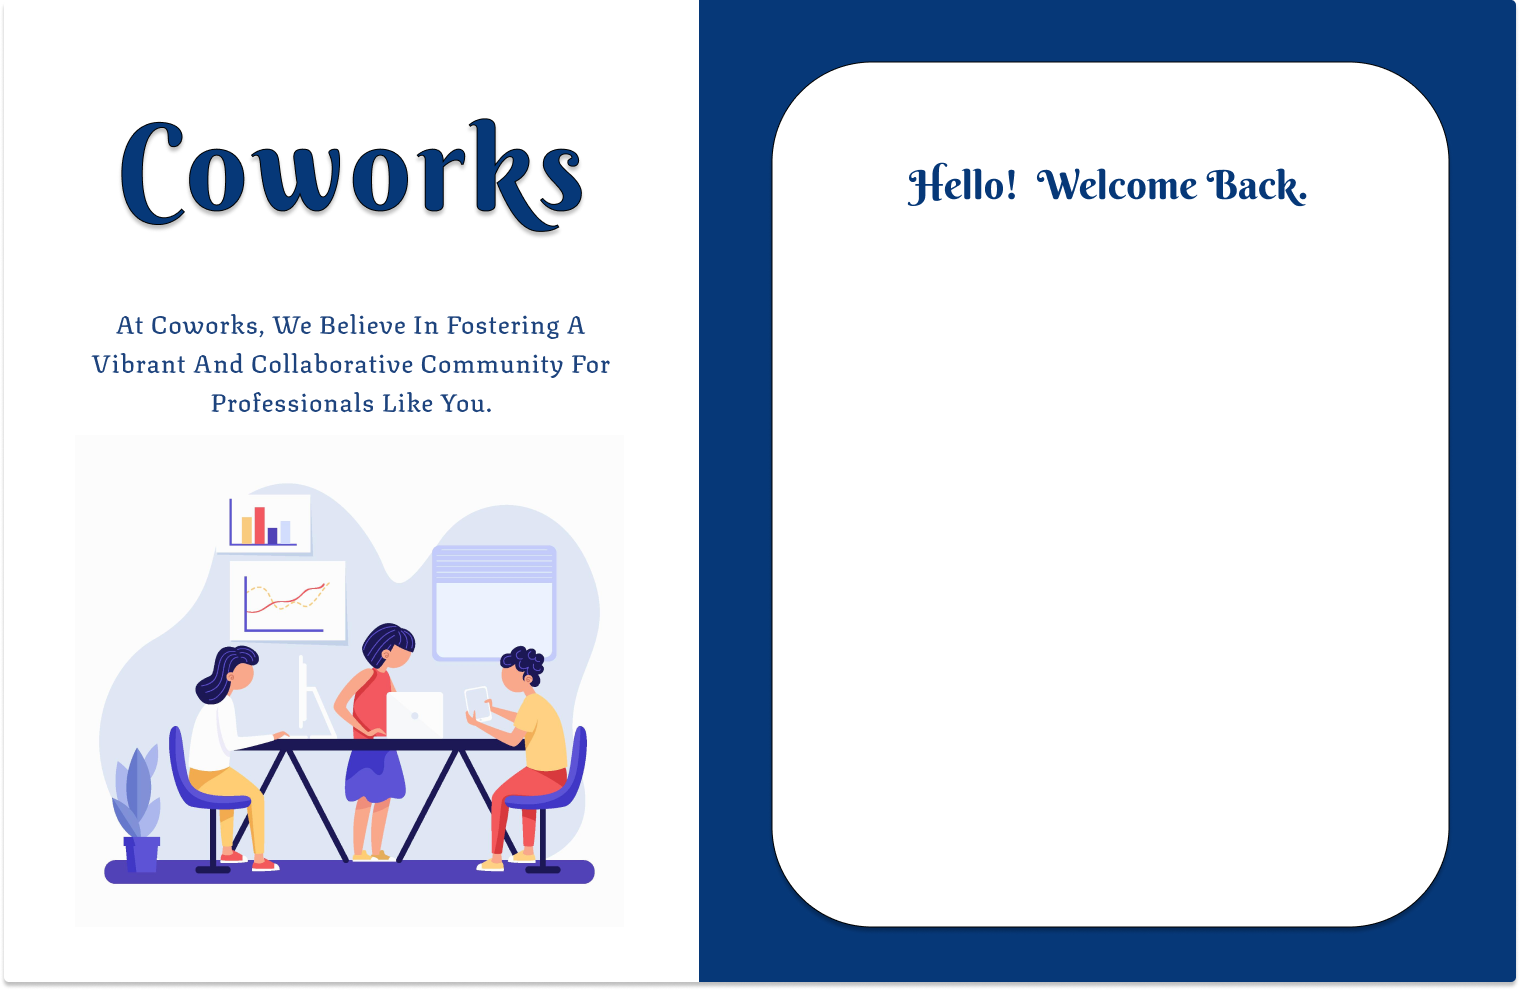
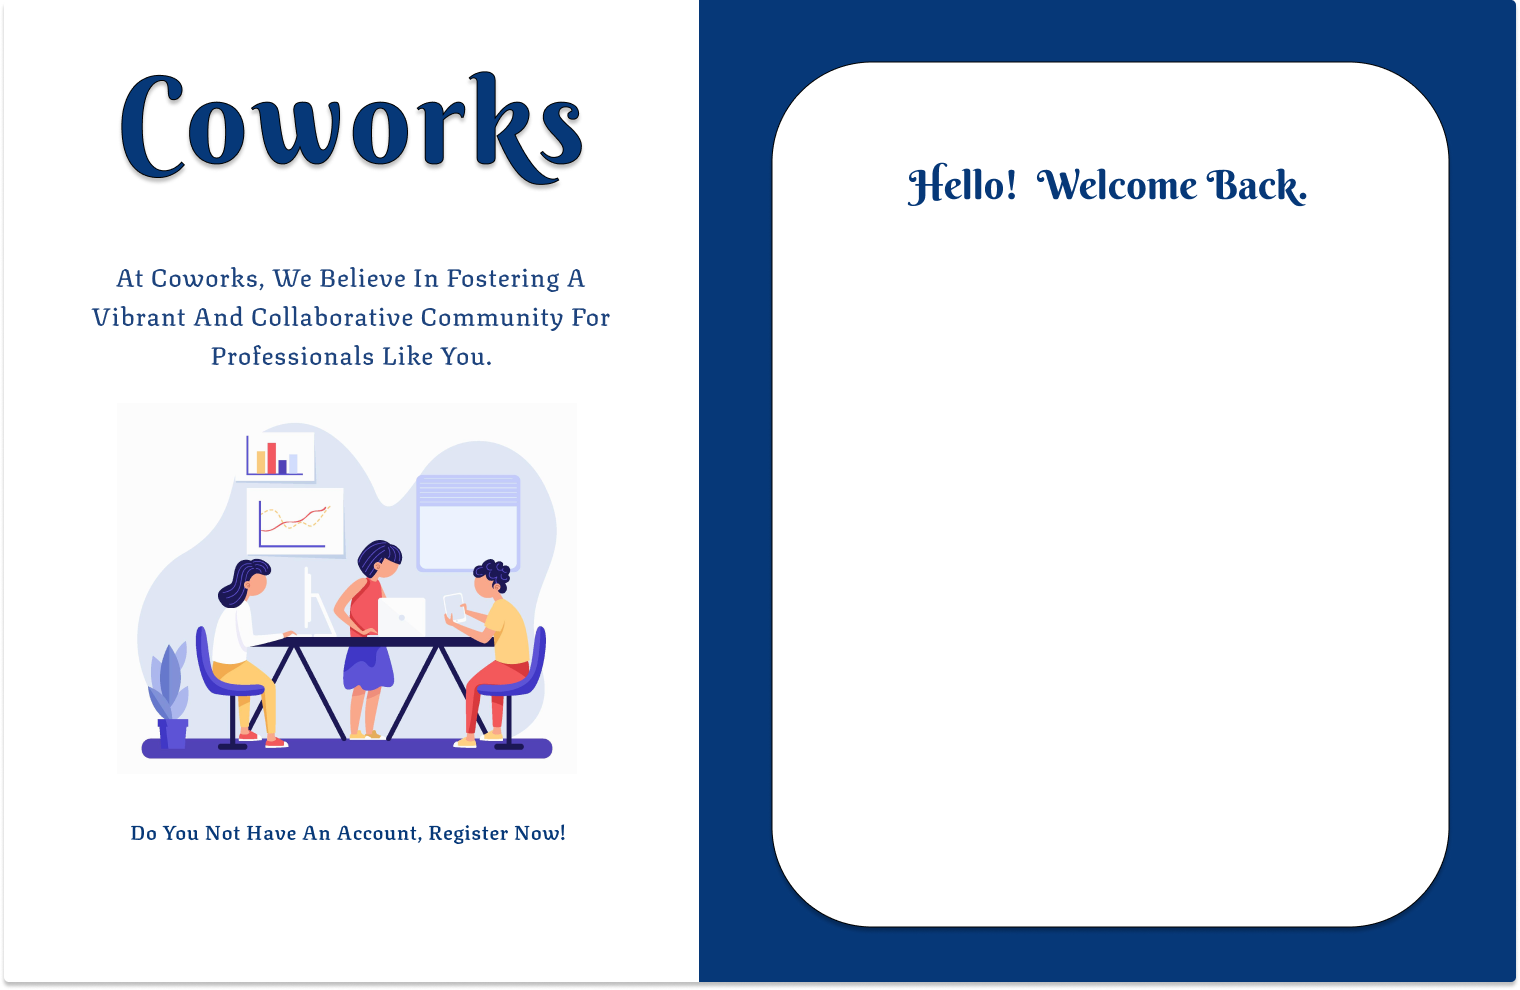
Made 3 screens of GUI "login", "register", and "welcome".

Changed region(s): [[0.0618, 0.2727, 0.402, 0.9091], [0.0618, 0.0606, 0.402, 0.2424]]

diff --git a/src/main/java/coworking_space/coworks/welcomeController.java b/src/main/java/coworking_space/coworks/welcomeController.java
@@ -1,0 +1,49 @@
+package coworking_space.coworks;
+
+import javafx.fxml.FXML;
+import javafx.fxml.FXMLLoader;
+import javafx.scene.Parent;
+import javafx.scene.Scene;
+import javafx.scene.input.MouseEvent;
+import javafx.scene.layout.AnchorPane;
+import javafx.stage.Stage;
+import java.io.IOException;
+
+public class welcomeController {
+
+    @FXML
+    private AnchorPane welcomeScreen;
+
+    @FXML
+    void changeScreenToLoginScreen(MouseEvent event) throws IOException
+    {
+        // Load the loginScreen.fxml file
+        Parent root = FXMLLoader.load(getClass().getResource("loginScreen.fxml"));
+
+        // Create a new scene with the loaded FXML content
+        Scene scene = new Scene(root);
+
+        // Get the Stage from the MouseEvent's source
+        Stage stage = (Stage) welcomeScreen.getScene().getWindow();
+
+        // Set the new scene on the stage
+        stage.setScene(scene);
+        stage.show();
+    }
+    @FXML
+    void changeScreenToRegisterScreen(MouseEvent event) throws IOException
+    {
+        // Load the registerScreen.fxml file
+        Parent root = FXMLLoader.load(getClass().getResource("registerScreen.fxml"));
+
+        // Create a new scene with the loaded FXML content
+        Scene scene = new Scene(root);
+
+        // Get the Stage from the MouseEvent's source
+        Stage stage = (Stage) welcomeScreen.getScene().getWindow();
+
+        // Set the new scene on the stage
+        stage.setScene(scene);
+        stage.show();
+    }
+}

diff --git a/src/main/java/coworking_space/coworks/LoginController.java b/src/main/java/coworking_space/coworks/LoginController.java
@@ -1,0 +1,42 @@
+package coworking_space.coworks;
+
+import javafx.fxml.FXML;
+import javafx.fxml.FXMLLoader;
+import javafx.scene.Parent;
+import javafx.scene.Scene;
+import javafx.scene.control.Button;
+import javafx.scene.image.ImageView;
+import javafx.scene.input.MouseEvent;
+import javafx.scene.layout.AnchorPane;
+import javafx.stage.Stage;
+
+import java.io.IOException;
+
+public class LoginController {
+
+    @FXML
+    private ImageView loginImage;
+
+    @FXML
+    private AnchorPane loginScreen;
+
+    @FXML
+    private Button registerLogin;
+
+    @FXML
+    void changeScreenToLoginScreen_2(MouseEvent event) throws IOException
+    {
+        // Load the registerScreen.fxml file
+        Parent root = FXMLLoader.load(getClass().getResource("registerScreen.fxml"));
+
+        // Create a new scene with the loaded FXML content
+        Scene scene = new Scene(root);
+
+        // Get the Stage from the MouseEvent's source
+        Stage stage = (Stage) loginScreen.getScene().getWindow();
+
+        // Set the new scene on the stage
+        stage.setScene(scene);
+        stage.show();
+    }
+}

diff --git a/src/main/java/coworking_space/coworks/TeachingRoom.java b/src/main/java/coworking_space/coworks/TeachingRoom.java
@@ -1,4 +1,4 @@
-package coworking_space.coworks;
+/*package coworking_space.coworks;
 
 import com.fasterxml.jackson.annotation.JsonCreator;
 import com.fasterxml.jackson.annotation.JsonIgnore;
@@ -17,13 +17,14 @@ public class TeachingRoom extends AbstractRoom{
     public String instractorname;
     public String type;
     ArrayList<InstructorVisitor> visitors;
-
     public final int maxNumberOfVisitors = 10;
     public TeachingRoom(@JsonProperty("name") String name, @JsonProperty("id") int id, @JsonProperty("projecttype") String projecttype,
                         @JsonProperty("boardtype") String boardtype, @JsonProperty("instractorname")String instractorname,
                         @JsonProperty("slots") ArrayList<Slot> slots,
                         @JsonProperty("visitors") ArrayList<InstructorVisitor> visitors)
 
+ */
+/*
     {
         this(name,id,slots,visitors);
         this.type="teaching";
@@ -103,6 +104,6 @@ public class TeachingRoom extends AbstractRoom{
         }
         return totalAmount;
     }
-}
+}*/
 
 

diff --git a/src/main/java/coworking_space/coworks/RegisterController.java b/src/main/java/coworking_space/coworks/RegisterController.java
@@ -1,0 +1,39 @@
+package coworking_space.coworks;
+
+import javafx.fxml.FXML;
+import javafx.fxml.FXMLLoader;
+import javafx.scene.Parent;
+import javafx.scene.Scene;
+import javafx.scene.control.Button;
+import javafx.scene.input.MouseEvent;
+import javafx.scene.layout.AnchorPane;
+import javafx.stage.Stage;
+
+import java.io.IOException;
+
+public class RegisterController {
+
+    @FXML
+    private Button registerLogin;
+
+    @FXML
+    private AnchorPane registerScreen;
+
+    @FXML
+    void changeScreenToLoginScreen_1(MouseEvent event) throws IOException
+    {
+        // Load the loginScreen.fxml file
+        Parent root = FXMLLoader.load(getClass().getResource("loginScreen.fxml"));
+
+        // Create a new scene with the loaded FXML content
+        Scene scene = new Scene(root);
+
+        // Get the Stage from the MouseEvent's source
+        Stage stage = (Stage) registerScreen.getScene().getWindow();
+
+        // Set the new scene on the stage
+        stage.setScene(scene);
+        stage.show();
+    }
+
+}

diff --git a/src/main/java/coworking_space/coworks/AbstractVisitor.java b/src/main/java/coworking_space/coworks/AbstractVisitor.java
@@ -1,4 +1,4 @@
-package coworking_space.coworks;
+/*package coworking_space.coworks;
 import com.fasterxml.jackson.annotation.JsonSubTypes;
 import com.fasterxml.jackson.annotation.JsonTypeInfo;
 import coworking_space.coworks.AbstractRoom;
@@ -45,7 +45,7 @@ public abstract class AbstractVisitor {
         }
         return visitors;
     }*/
-
+/*
     protected static AbstractVisitor createVisitorFromRegistration(Registration currentR) {
         try {
             switch (currentR.getRole()) {
@@ -126,7 +126,7 @@ public abstract class AbstractVisitor {
                 }break;
         }
     }*/
-
+/*
     public void displayData(int c, ArrayList<AbstractVisitor> visitorinfo, String currentUserEmail, AbstractRoom room) {
         switch (c) {
             case 1:
@@ -163,4 +163,4 @@ public abstract class AbstractVisitor {
     protected abstract void makeReservation(AbstractRoom room);
     protected abstract void updateReservation(AbstractRoom room);
     public abstract void cancelReservation(AbstractRoom room);
-}
+}*/

diff --git a/src/main/java/coworking_space/coworks/Coworks_Main.java b/src/main/java/coworking_space/coworks/Coworks_Main.java
@@ -7,16 +7,17 @@ import javafx.stage.Stage;
 
 import java.io.IOException;
 
-public class Coworks_Main extends Application {
+public class Coworks_Main extends Application
+{
     @Override
-    public void start(Stage stage) throws IOException {
-        FXMLLoader fxmlLoader = new FXMLLoader(Coworks_Main.class.getResource("hello-view.fxml"));
+    public void start(Stage stage) throws IOException
+    {
+        FXMLLoader fxmlLoader = new FXMLLoader(Coworks_Main.class.getResource("welcomeScreen.fxml"));
         Scene scene = new Scene(fxmlLoader.load());
         stage.setTitle("Coworks");
         stage.setScene(scene);
         stage.show();
     }
-
     public static void main(String[] args) {
         launch();
     }

diff --git a/src/main/java/coworking_space/coworks/Login.java b/src/main/java/coworking_space/coworks/Login.java
@@ -1,4 +1,4 @@
-package coworking_space.coworks;
+/*package coworking_space.coworks;
 
 import java.util.Arrays;
 
@@ -32,13 +32,12 @@ class Login {
                     System.out.println(role);
                 } else {
                     JOptionPane.showMessageDialog(panel, "Invalid credentials. Please try again.");
-                }
-      */
+                }*/
 
 
 
 
-
+/*
     private boolean validateLogin(String userEmail, String password,String role) {
 
 
@@ -68,9 +67,4 @@ class Login {
     public static Login getLastSuccessfulLogin() {
         return lastSuccessfulLogin;
     }
-
-
-
-
-}
-*/
+}*/

diff --git a/src/main/java/coworking_space/coworks/Slot.java b/src/main/java/coworking_space/coworks/Slot.java
@@ -1,4 +1,4 @@
-package coworking_space.coworks;
+/*package coworking_space.coworks;
 
 import com.fasterxml.jackson.annotation.JsonCreator;
 import com.fasterxml.jackson.annotation.JsonIgnore;
@@ -74,7 +74,7 @@ public class Slot
     /*public void addReservation(Reservation reservation)
     {
         reservations.add(reservation);
-    }*/
+    }*//*
     public void removeReservation(Reservation reservation)
     {
         reservations.remove(reservation);
@@ -104,4 +104,4 @@ public class Slot
 
         public void setVisitor(AbstractVisitor visitor) {this.visitor = visitor;}
     }
-}
+}*/

diff --git a/src/main/java/coworking_space/coworks/AbstractRoom.java b/src/main/java/coworking_space/coworks/AbstractRoom.java
@@ -1,4 +1,4 @@
-package coworking_space.coworks;
+/*package coworking_space.coworks;
 
 import com.fasterxml.jackson.annotation.JsonSubTypes;
 import com.fasterxml.jackson.annotation.JsonTypeInfo;
@@ -35,4 +35,4 @@ abstract public class AbstractRoom {
     // This is a method that returns an ArrayList of any datatype that extends abstract visitor
     // ya3ny abstarct w general w instructor w formal
     abstract ArrayList<? extends AbstractVisitor> getVisitors();
-}
+}*/

diff --git a/src/main/java/coworking_space/coworks/Registration.java b/src/main/java/coworking_space/coworks/Registration.java
@@ -1,4 +1,4 @@
-package coworking_space.coworks;
+/* package coworking_space.coworks;
 
 import java.util.Scanner;
 import java.util.ArrayList;
@@ -44,7 +44,7 @@ class Registration {
                 }
 
                 */
-
+/*
     public static ArrayList<Registration> getRegistrations() {
         return registrations;
     }
@@ -128,5 +128,5 @@ class Registration {
 
     // private boolean isValidEmail(String email) {}
 
-}
+}*/
 

diff --git a/src/main/java/coworking_space/coworks/Json.java b/src/main/java/coworking_space/coworks/Json.java
@@ -1,4 +1,4 @@
-package coworking_space.coworks;
+/*package coworking_space.coworks;
 
 import com.fasterxml.jackson.core.type.TypeReference;
 import com.fasterxml.jackson.databind.ObjectMapper;
@@ -69,4 +69,4 @@ public class Json {
         }
     }
     ///////////////////////////////////////////////////////
-}
+}*/

diff --git a/src/main/java/coworking_space/coworks/MeetingRoom.java b/src/main/java/coworking_space/coworks/MeetingRoom.java
@@ -1,4 +1,4 @@
-package coworking_space.coworks;
+/*package coworking_space.coworks;
 
 import com.fasterxml.jackson.annotation.JsonCreator;
 import com.fasterxml.jackson.annotation.JsonIgnore;
@@ -72,6 +72,6 @@ public class MeetingRoom extends AbstractRoom {
         }
         return totalAmount;
     }
-}
+}*/
 
 
